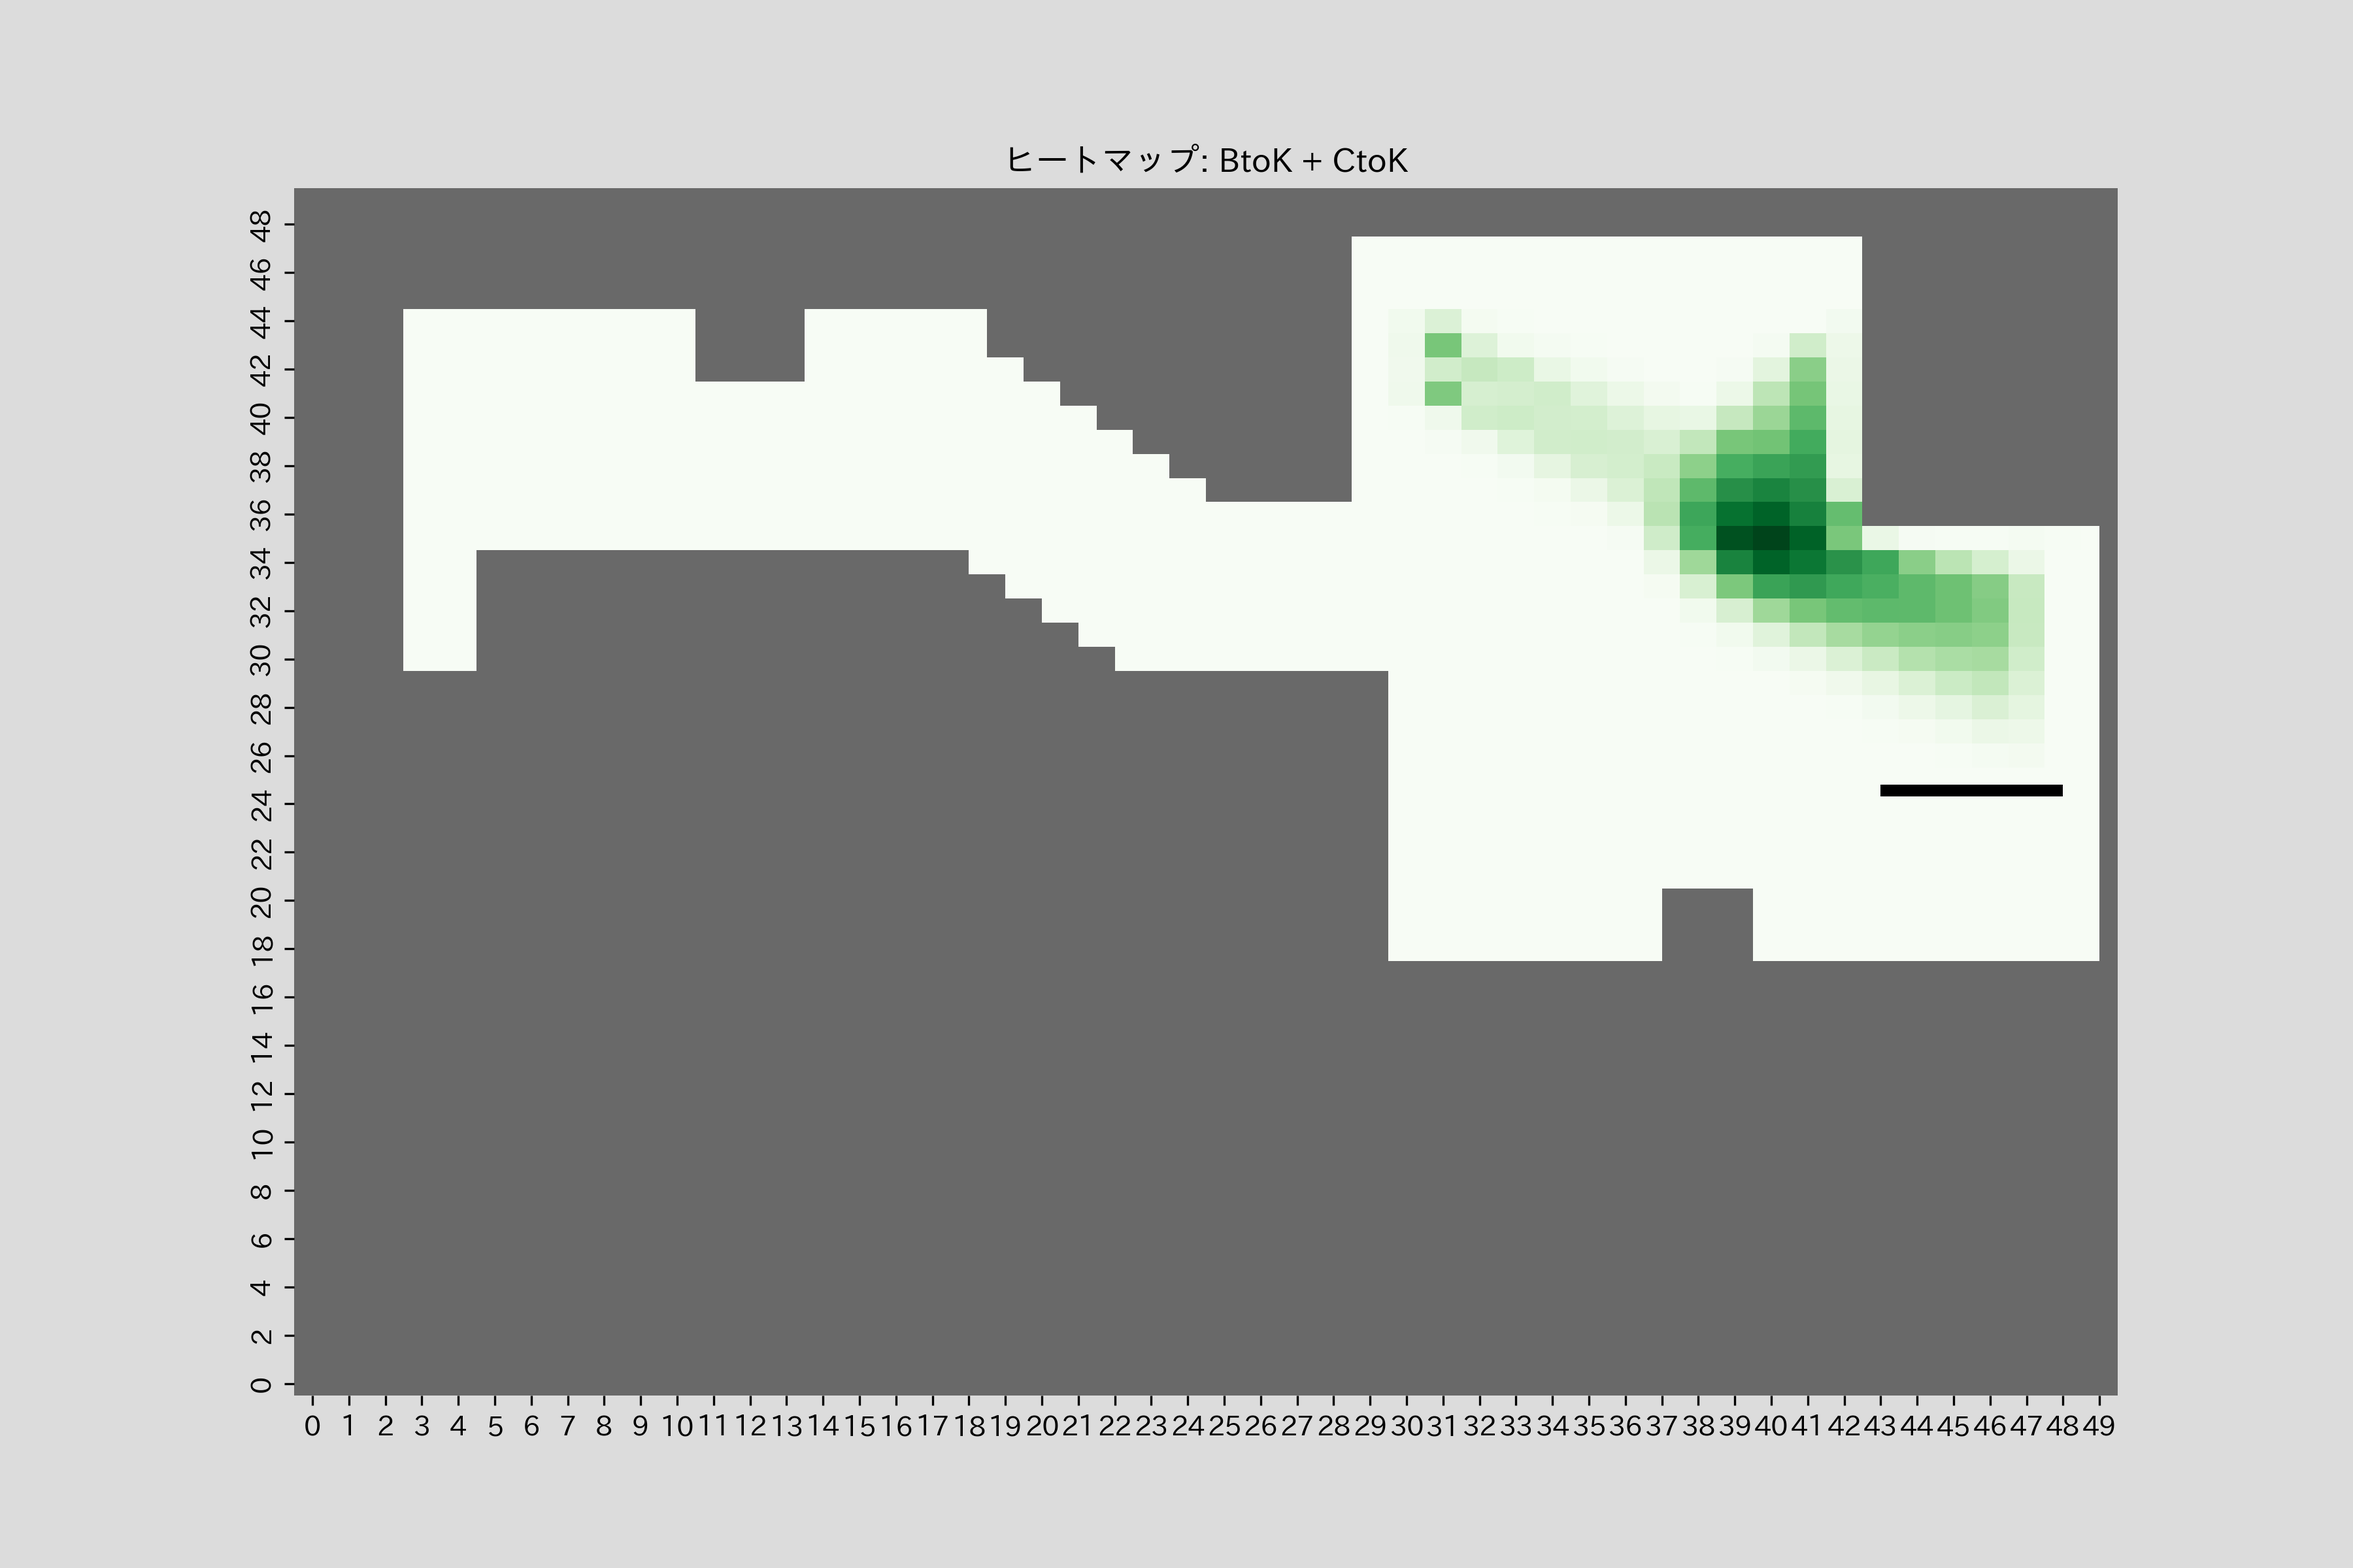
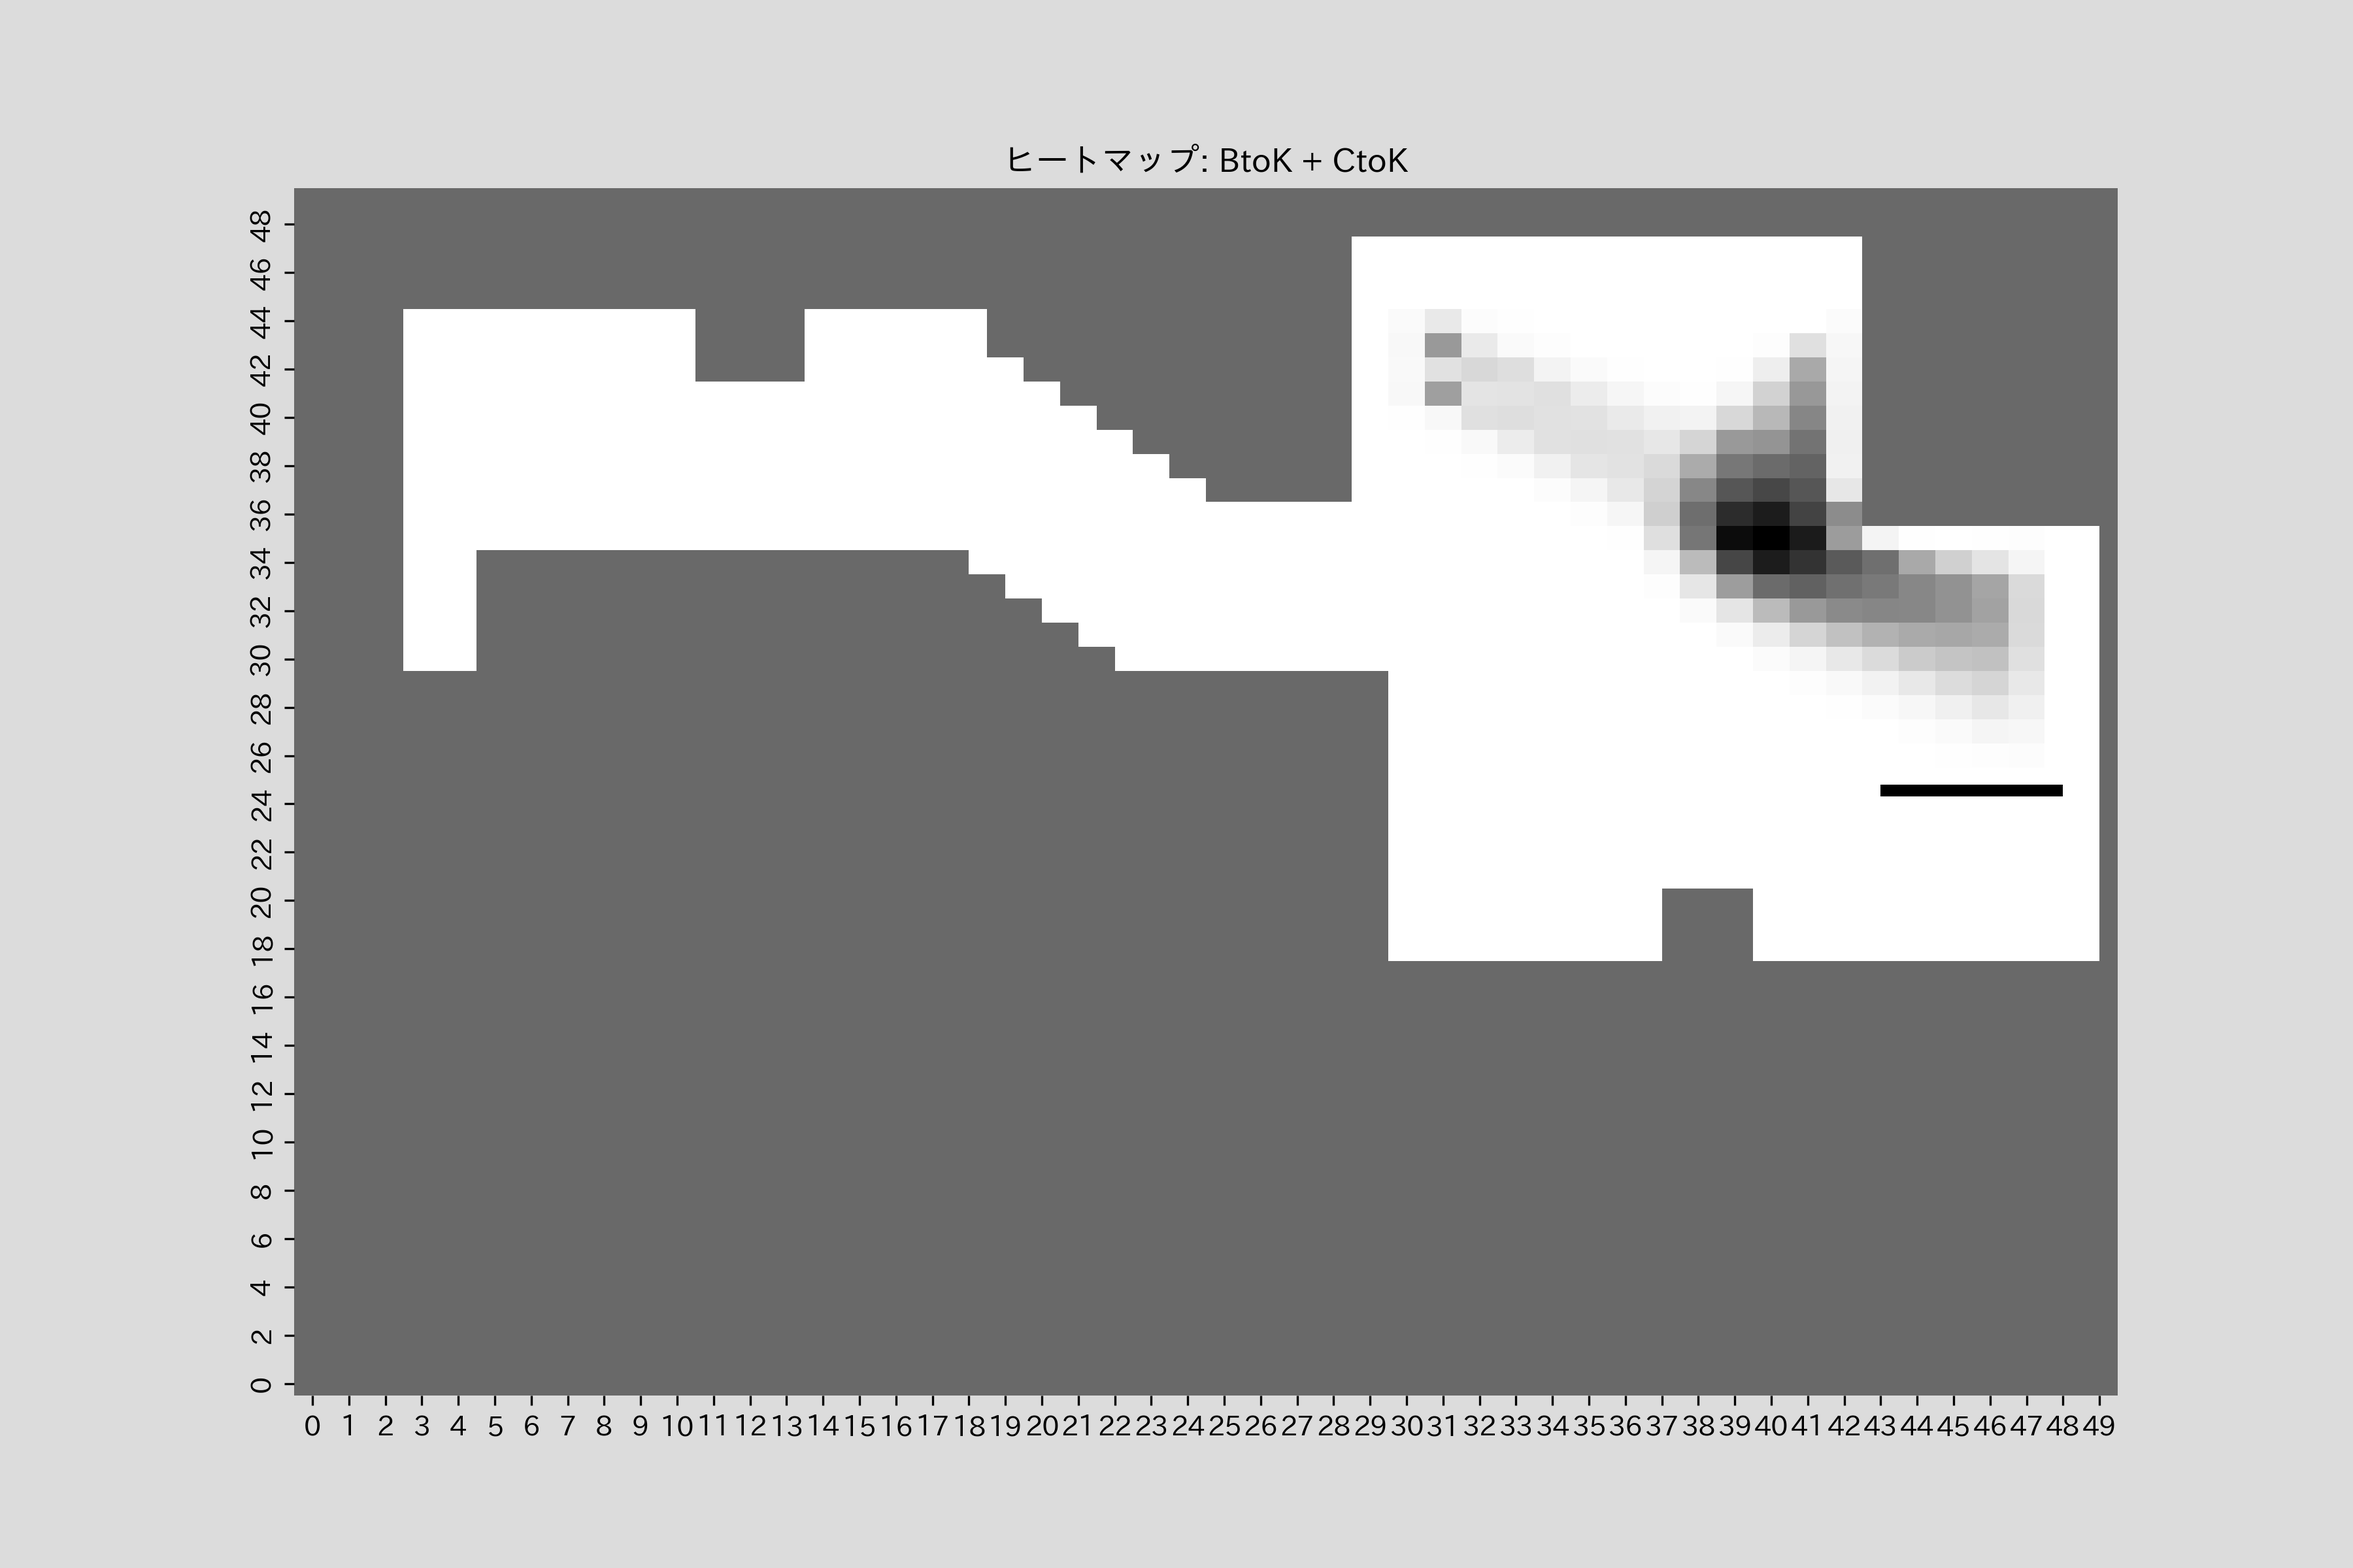
Greys

Changed region(s): [[0.6844, 0.2188, 0.8711, 0.4375], [0.5911, 0.2188, 0.6533, 0.2812]]

diff --git a/gap_morning_slidemaster.py b/gap_morning_slidemaster.py
@@ -10,8 +10,8 @@ from result_morning_latest import *
 
 type = "result_morning"
 
-now_string = "normal"
-kabe = False
+now_string = "wall10"
+kabe = True
 
 s_now_string = "s_" + now_string
 
@@ -70,7 +70,7 @@ def HeatmappingNumber(now_agents_positions, walls, fig_name):
     now = btok + ctok
     
 
-    ax2 = sns.heatmap(now, cmap='Greens',cbar=False, annot=False, fmt='d', annot_kws={'fontsize':4.5})
+    ax2 = sns.heatmap(now, cmap='Greys',cbar=False, annot=False, fmt='d', annot_kws={'fontsize':4.5})
     for wall in walls:
             ax2.add_patch(Rectangle((wall[0]/10, wall[1]/10), (wall[2]-wall[0])/10, (wall[3]-wall[1])/10, fc='#696969'))
     ax2.invert_yaxis()
@@ -113,16 +113,16 @@ def GappingHeatmap(results, walls, fig_name):
 def GappingHeatmapNew(now_agents_positions, walls, fig_name): # 正規化, position分け
     points_list = get_points_in_rectangles(walls)
     global normalllls
-
-    for key in keys:
-        
-        fig2, ax2 = plt.subplots(figsize=(12.0, 8.0),
+    fig2, ax2 = plt.subplots(figsize=(12.0, 8.0),
                             facecolor="gainsboro")
         
-        ax2.set_xlim(0, 500)
-        ax2.set_ylim(0, 500)
+    ax2.set_xlim(0, 500)
+    ax2.set_ylim(0, 500)
 
-        ax2.set_title(f"ヒートマップ: {key}")
+    ax2.set_title(f"ヒートマップ: " + "BtoK CtoK Gap")
+
+
+    for key in keys:
         nor = normalllls[key]
         nor = create_map_from_points(points_list, nor)
         nor = np.array(nor)
@@ -139,20 +139,22 @@ def GappingHeatmapNew(now_agents_positions, walls, fig_name): # 正規化, posit
 
         gap_max = np.max(abs(gap))
 
-        if key in speeds:
-            return
-        else:
+        if key=="CtoK" or key=="BtoK":
             ax2 = sns.heatmap(gap, cmap='bwr',cbar=False, annot=False, fmt='.2f', annot_kws={'fontsize':4.5}, vmax=gap_max, vmin=-1*gap_max)
+        else:
+            continue
         for wall in walls:
-                ax2.add_patch(Rectangle((wall[0]/10, wall[1]/10), (wall[2]-wall[0])/10, (wall[3]-wall[1])/10, fc='#696969'))
-        ax2.invert_yaxis()
+            ax2.add_patch(Rectangle((wall[0]/10, wall[1]/10), (wall[2]-wall[0])/10, (wall[3]-wall[1])/10, fc='#696969'))
+            ax2.invert_yaxis()
 
         if kabe:
             ax2.add_patch(Rectangle((addwalls[now_string][0]/10, addwalls[now_string][1]/10), (addwalls[now_string][2]-addwalls[now_string][0])/10, (addwalls[now_string][3]-addwalls[now_string][1])/10, fc='k'))
+       
+    
 
-        # plt.show()
-        fig2.savefig(f"{type}/{fig_name}/heatmap_gap_{key}.png", dpi=300)
-        plt.close(fig2)
+    # plt.show()
+    fig2.savefig(f"{type}/{fig_name}/heatmap_gap_btokctok.png", dpi=300)
+    plt.close(fig2)
 
 # 箱ひげ図
 def GappingHakohigeHazure(results, fig_name):
